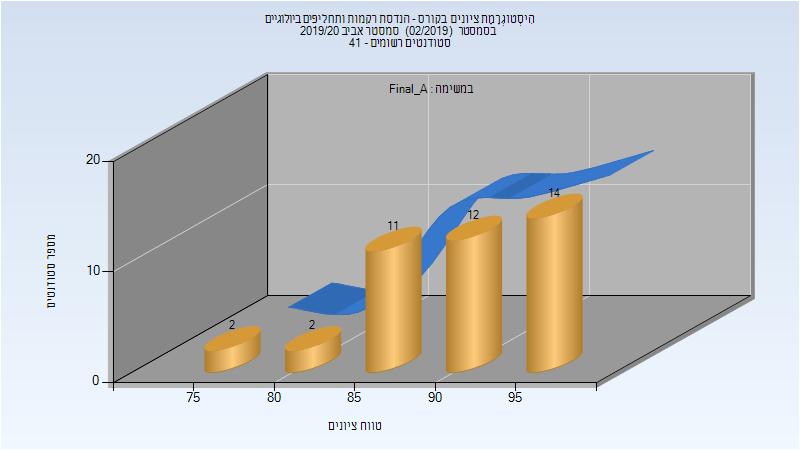
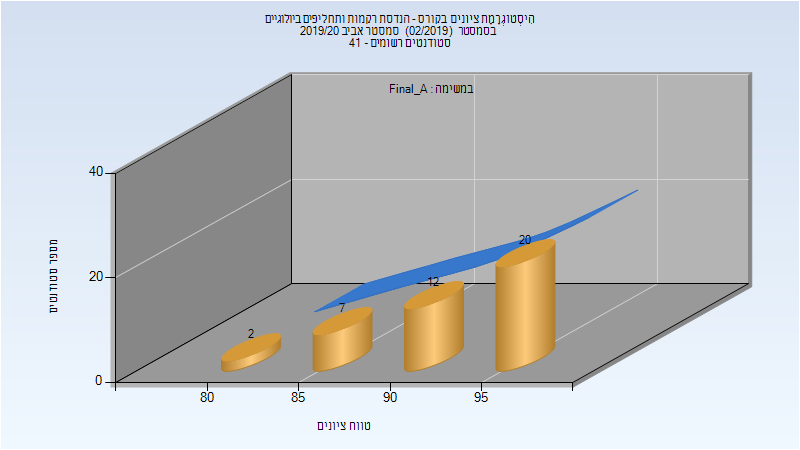
Deploy michael-maltsev/technion-histograms to github.com/michael-maltsev/technion-histograms.git:gh-pages

diff --git a/335009/index.html b/335009/index.html
@@ -290,5 +290,31 @@
 </tr>
 </tbody>
 </table>
+<h3>סופי</h3>
+<p><img src="201902/Finals.png" alt="201902 Finals" /></p>
+<table>
+<thead>
+<tr>
+<th>סטודנטים</th>
+<th>עברו/נכשלו</th>
+<th>אחוז עוברים</th>
+<th>ציון מינימלי</th>
+<th>ציון מקסימלי</th>
+<th>ממוצע</th>
+<th>חציון</th>
+</tr>
+</thead>
+<tbody>
+<tr>
+<td>61</td>
+<td>59/2</td>
+<td>97</td>
+<td>53</td>
+<td>98</td>
+<td>76.066</td>
+<td>75</td>
+</tr>
+</tbody>
+</table>
   </body>
 </html>

diff --git a/336529/index.html b/336529/index.html
@@ -156,10 +156,10 @@
 <td>41</td>
 <td>41/0</td>
 <td>100</td>
-<td>76</td>
+<td>83</td>
 <td>99</td>
-<td>90.951</td>
-<td>93</td>
+<td>93.22</td>
+<td>94</td>
 </tr>
 </tbody>
 </table>

diff --git a/335009/README.md b/335009/README.md
@@ -86,3 +86,11 @@
 | ---- | ---- | ---- | ---- | ---- | ---- | ---- |
 | 61 | 59/2 | 97 | 53 | 98 | 76.066 | 75 |
 
+### סופי
+
+![201902 Finals](201902/Finals.png)
+
+| סטודנטים | עברו/נכשלו | אחוז עוברים | ציון מינימלי | ציון מקסימלי | ממוצע | חציון |
+| ---- | ---- | ---- | ---- | ---- | ---- | ---- |
+| 61 | 59/2 | 97 | 53 | 98 | 76.066 | 75 |
+

diff --git a/336529/README.md b/336529/README.md
@@ -44,5 +44,5 @@
 
 | סטודנטים | עברו/נכשלו | אחוז עוברים | ציון מינימלי | ציון מקסימלי | ממוצע | חציון |
 | ---- | ---- | ---- | ---- | ---- | ---- | ---- |
-| 41 | 41/0 | 100 | 76 | 99 | 90.951 | 93 |
+| 41 | 41/0 | 100 | 83 | 99 | 93.22 | 94 |
 
